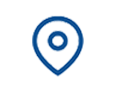
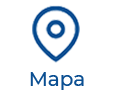
iconos cambiados y linkados

Changed region(s): [[0.2632, 0.0638, 0.7368, 0.9574]]

diff --git a/client/src/components/Footer/Footer.js b/client/src/components/Footer/Footer.js
@@ -3,6 +3,7 @@ import mapaMenu from  "../../img/mapaMenu.png";
 import profileMenu from  "../../img/profileMenu.png";
 import recordatorioMenu from  "../../img/recordatorioMenu.png";
 import resenasMenu from  "../../img/resenasMenu.png";
+import { Link } from "react-router-dom";
 
 
 
@@ -13,11 +14,11 @@ const Footer = () => {
   return (
     <footer className="Footer">
  
- <img src={mapaMenu}></img>
- <img src={resenasMenu}></img>
 
- <img src={recordatorioMenu}></img>
- <img src={profileMenu}></img>
+ <Link to="/home"> <img src={mapaMenu}></img></Link>
+ <Link to="/home"> <img src={resenasMenu}></img></Link>
+ <Link to="/home"> <img src={recordatorioMenu}></img></Link>
+ <Link to="/home"> <img src={profileMenu}></img></Link>
 
  
       

diff --git a/client/src/components/Footer/Footer.scss b/client/src/components/Footer/Footer.scss
@@ -25,8 +25,8 @@ color: white;
 img{
 
  margin-right: 5%;
- margin-left: 5%;
-  width: 15%;
+ margin-left: 3%;
+  width: 16%;
 }
 
 img:hover{
